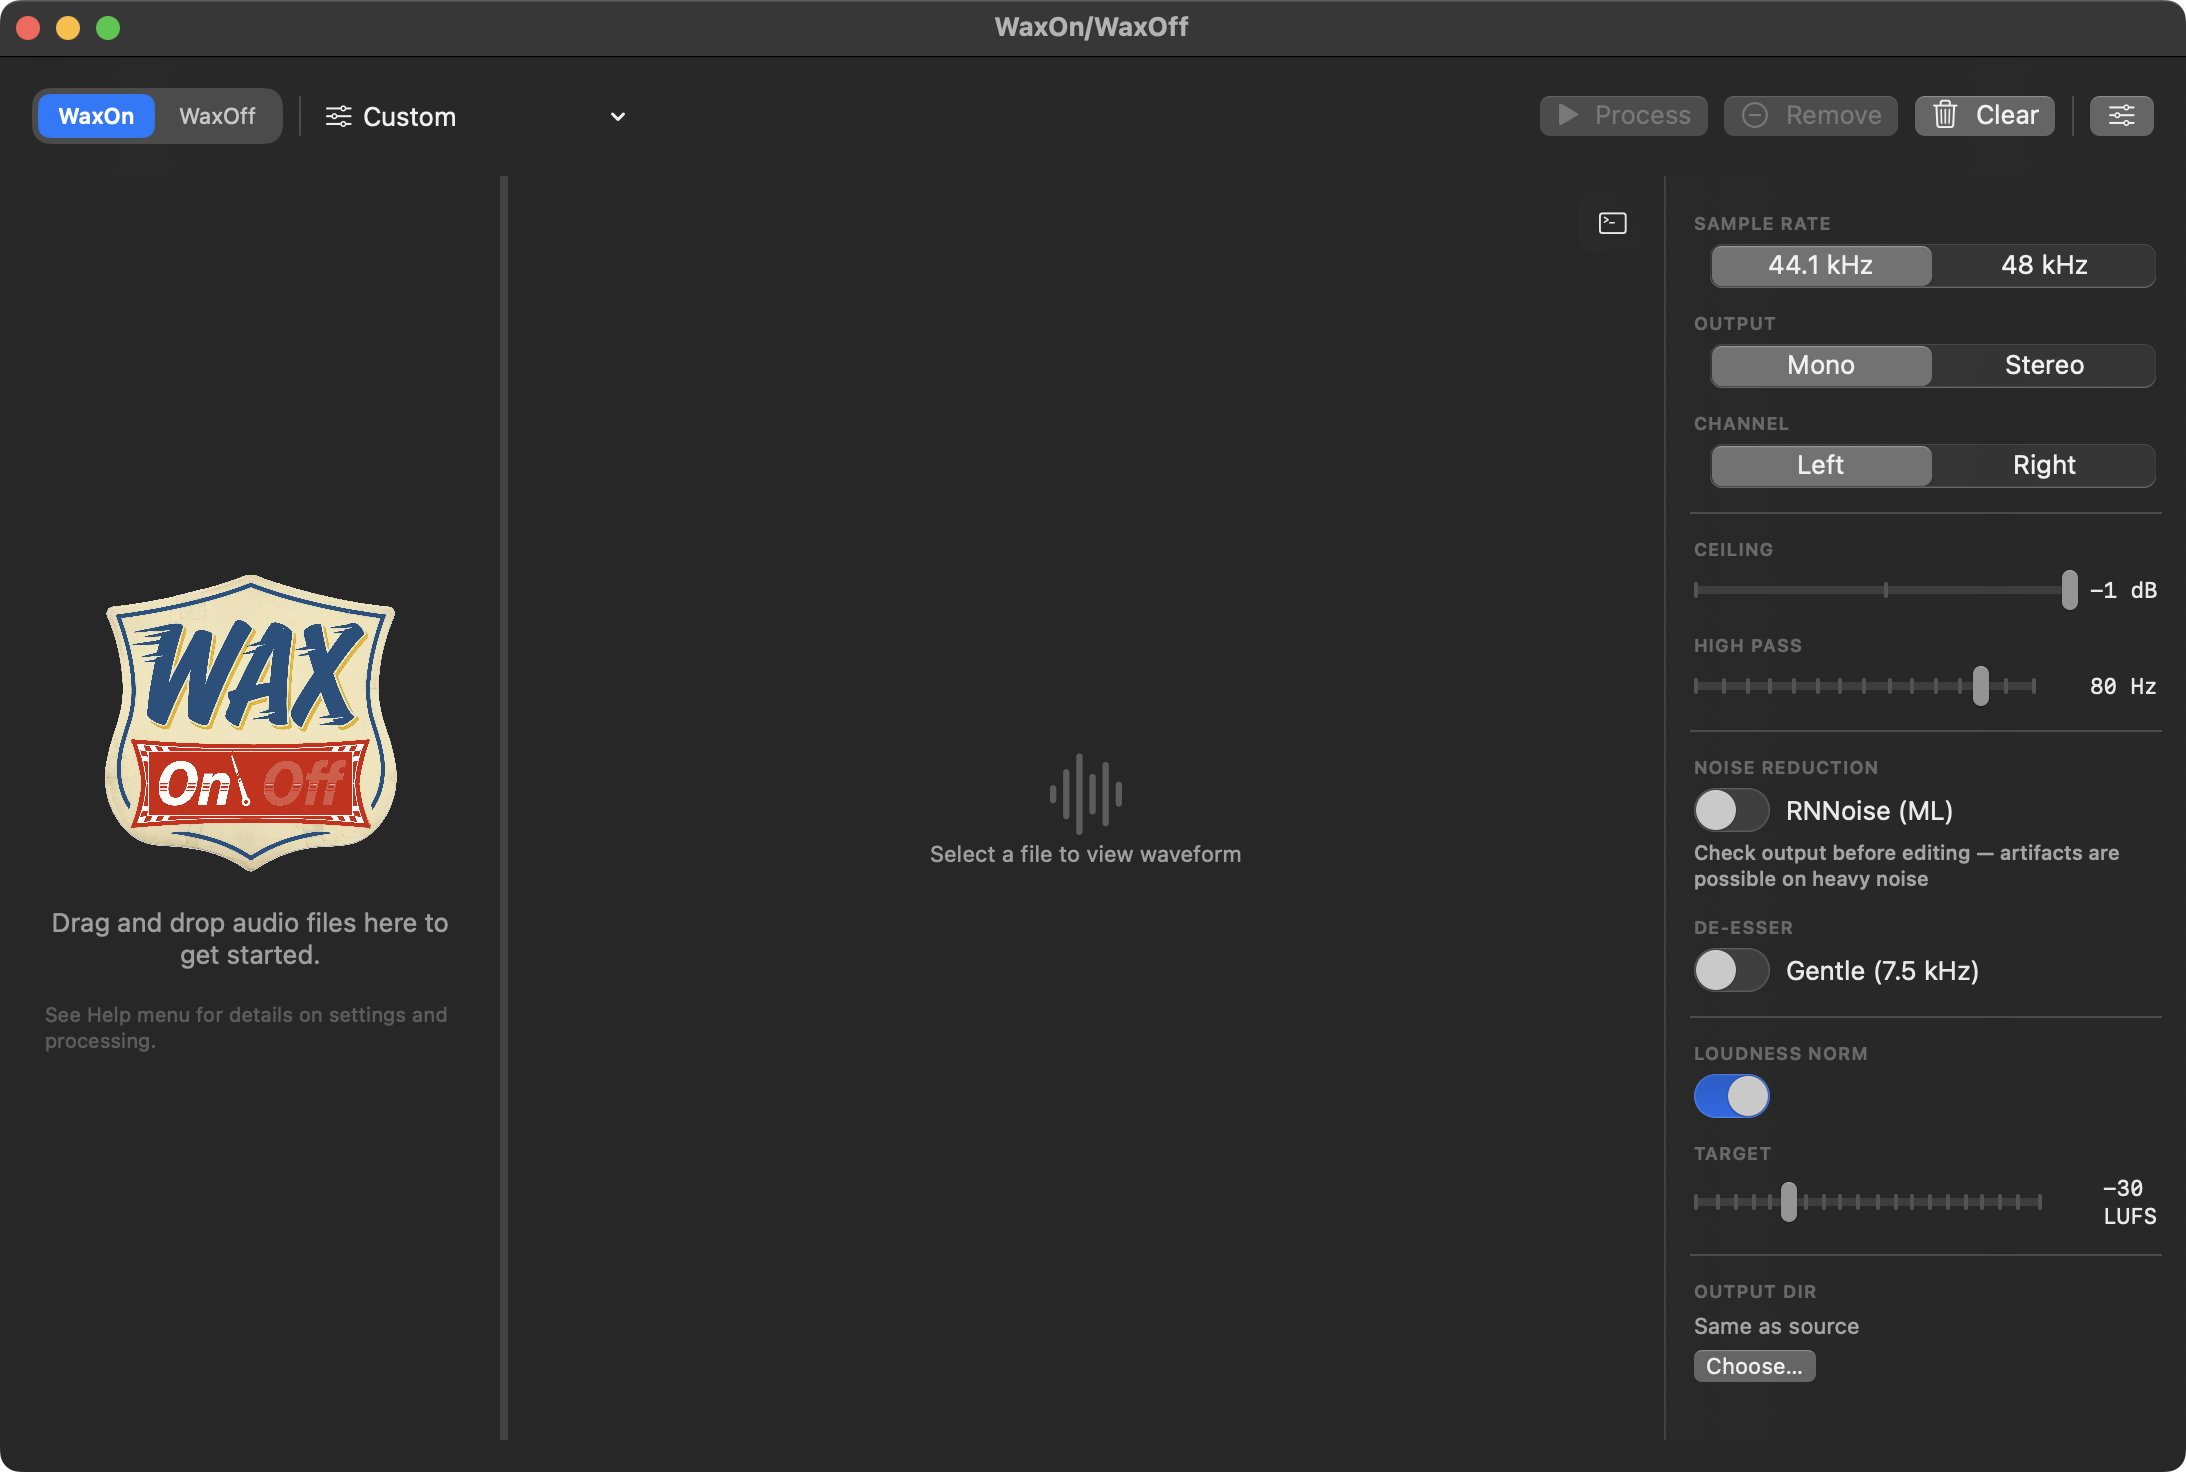
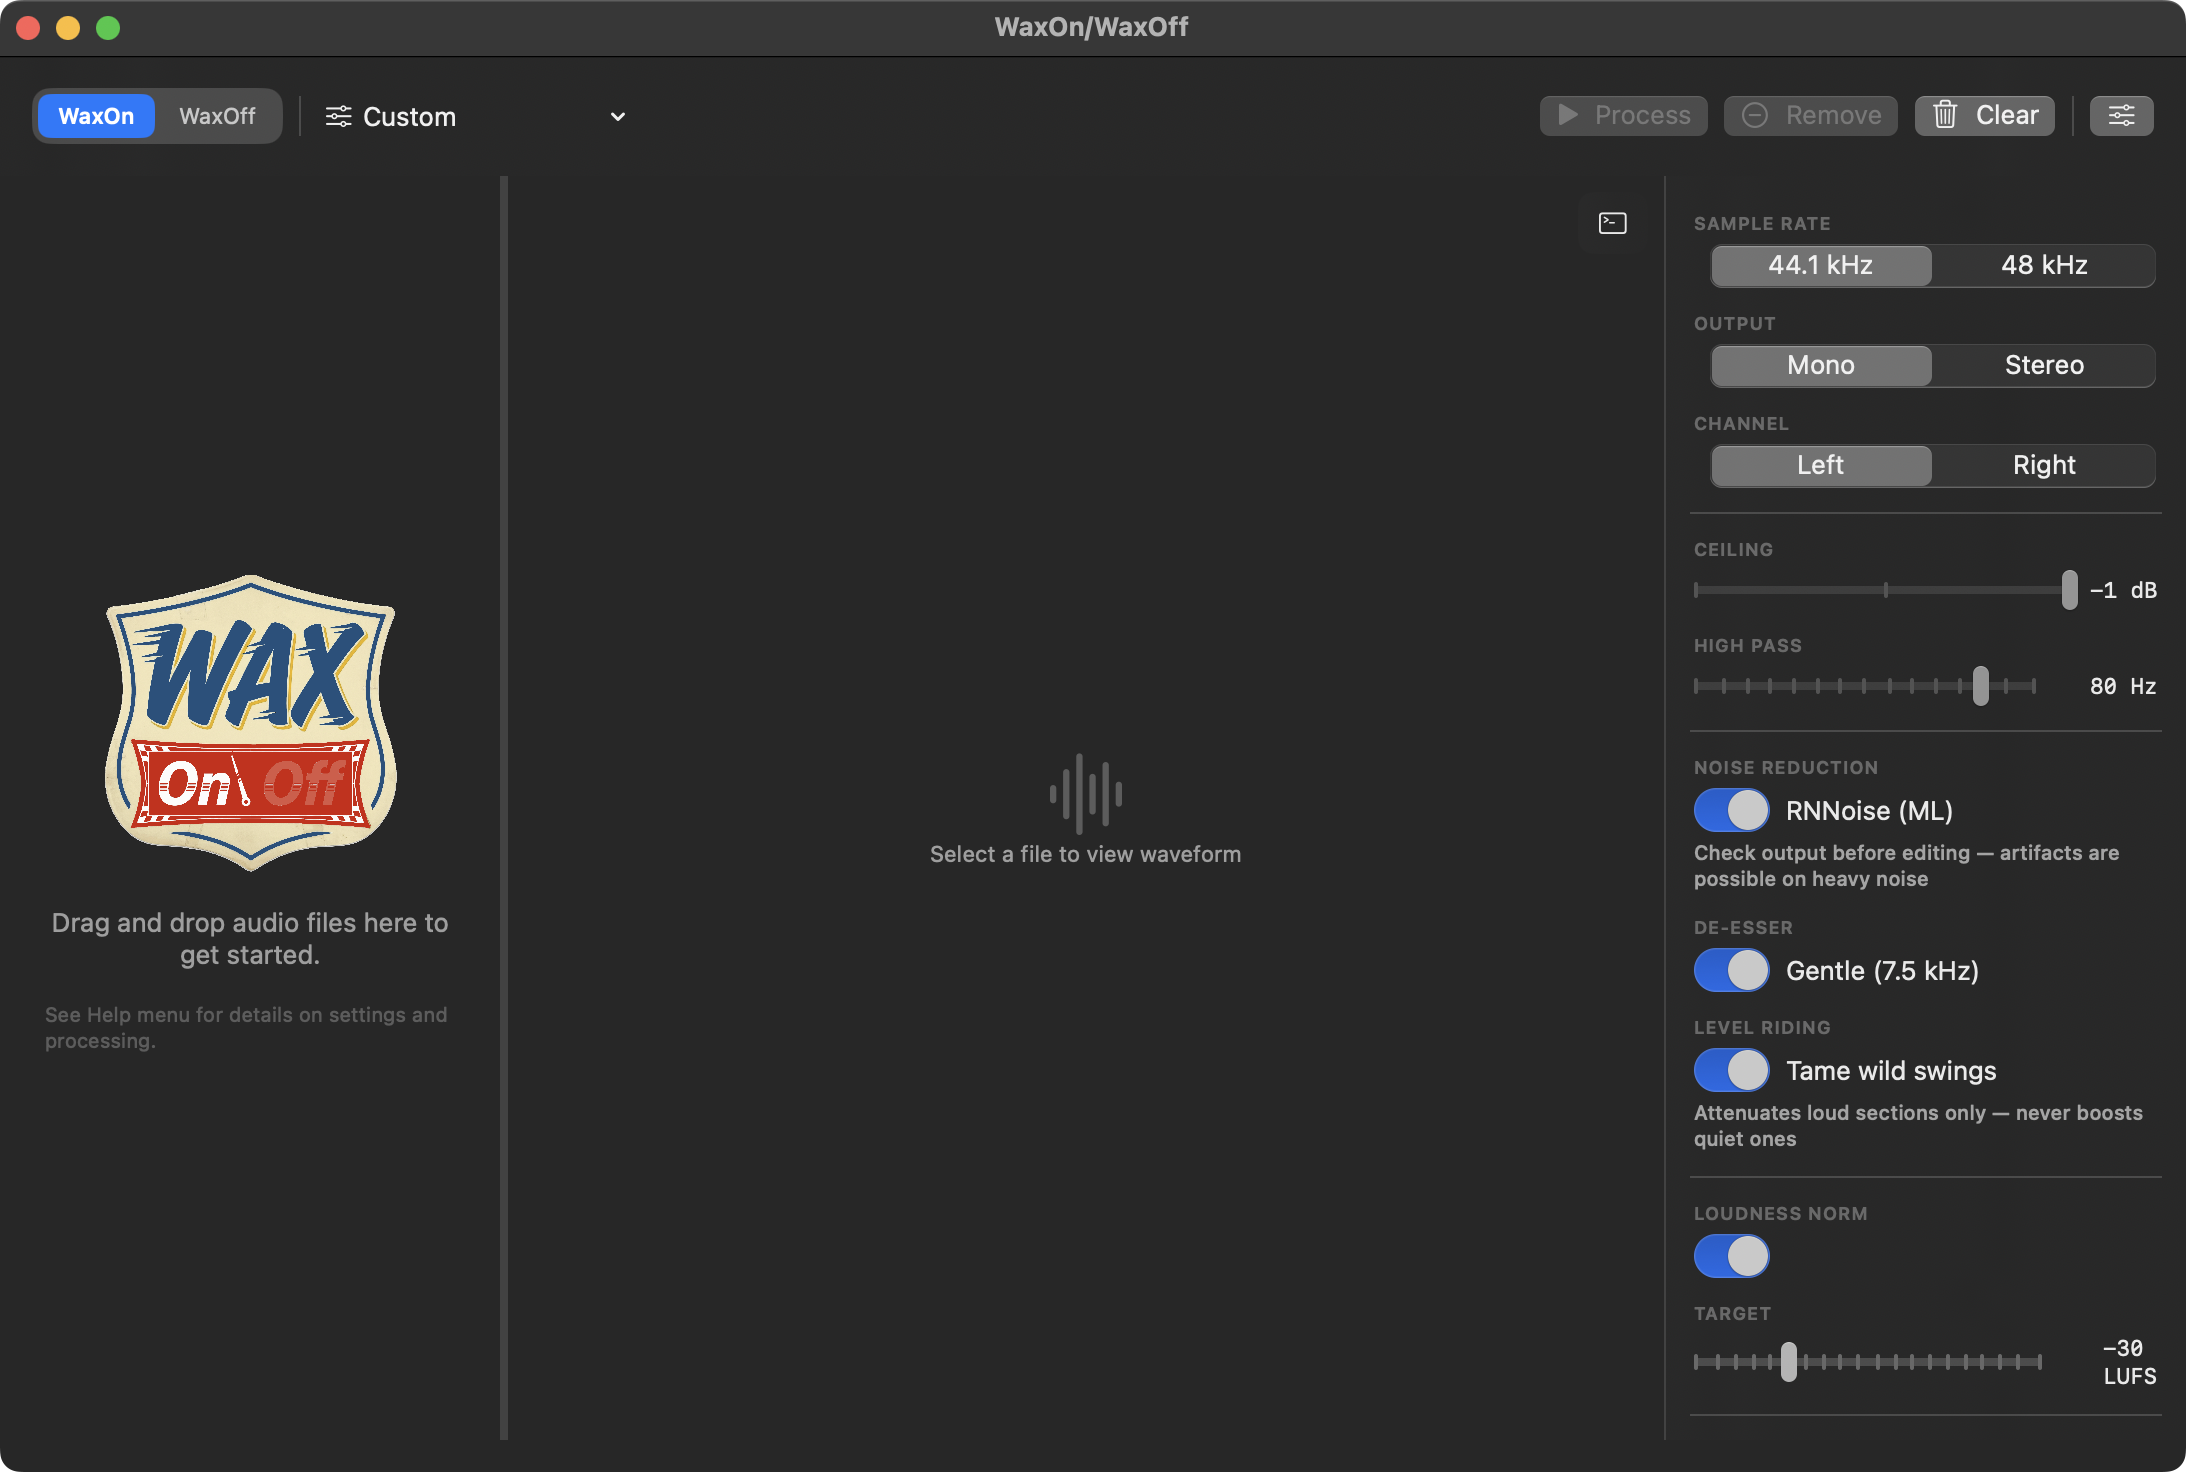
Add Level Riding (dynaudnorm downward-only), AIFC support, updated screenshots
- Level Riding: optional dynaudnorm pass (p=0.95, m=1.0, g=31) after de-esser,
  before loudnorm; attenuates loud sections only, never boosts quiet material
- Add AIFC to supported format lists in both view models and help text
- Replace WaxOn screenshots with updated versions showing Level Riding UI

diff --git a/WaxOnWaxOff/Services/AudioProcessor.swift b/WaxOnWaxOff/Services/AudioProcessor.swift
@@ -154,6 +154,22 @@ actor AudioProcessor {
             postDsURL = midURL
         }
 
+        // Level riding (optional, dynaudnorm downward-only)
+        let postLevelURL: URL
+        if settings.levelRidingEnabled {
+            let levelURL = work.appendingPathComponent("\(stem)_leveled.wav")
+            onLog?("  level riding: dynaudnorm (downward only, no boost)", .verbose)
+            try await runFFmpeg(exe: tools.ffmpeg, args: [
+                "-nostdin", "-hide_banner", "-loglevel", "error", "-y",
+                "-i", postDsURL.path, "-af", "dynaudnorm=p=0.95:m=1.0:g=31",
+                "-c:a", "pcm_s24le", "-ar", "\(sr)", "-ac", outputChannelCount, levelURL.path
+            ])
+            postLevelURL = levelURL
+            try Task.checkCancellation()
+        } else {
+            postLevelURL = postDsURL
+        }
+
         // Loudness normalization (optional, two-pass EBU R128)
         let limiterInput: URL
         if settings.loudnormEnabled {
@@ -177,19 +193,19 @@ actor AudioProcessor {
                     ].joined(separator: ";")
                     try await runFFmpeg(exe: tools.ffmpeg, args: [
                         "-nostdin", "-hide_banner", "-loglevel", "error", "-y",
-                        "-i", postDsURL.path, "-filter_complex", nrFc,
+                        "-i", postLevelURL.path, "-filter_complex", nrFc,
                         "-c:a", "pcm_s24le", "-ar", "\(sr)", "-ac", outputChannelCount, nrTempURL.path
                     ])
                 } else {
                     try await runFFmpeg(exe: tools.ffmpeg, args: [
                         "-nostdin", "-hide_banner", "-loglevel", "error", "-y",
-                        "-i", postDsURL.path, "-af", "arnndn=m=\(modelURL.path)",
+                        "-i", postLevelURL.path, "-af", "arnndn=m=\(modelURL.path)",
                         "-c:a", "pcm_s24le", "-ar", "\(sr)", "-ac", outputChannelCount, nrTempURL.path
                     ])
                 }
                 analysisInput = nrTempURL
             } else {
-                analysisInput = postDsURL
+                analysisInput = postLevelURL
             }
 
             let analyzeAf = "loudnorm=I=\(target):TP=\(tp):LRA=20:print_format=json"
@@ -210,13 +226,13 @@ actor AudioProcessor {
 
             try await runFFmpeg(exe: tools.ffmpeg, args: [
                 "-nostdin", "-hide_banner", "-loglevel", "error", "-y",
-                "-i", postDsURL.path, "-af", normAf,
+                "-i", postLevelURL.path, "-af", normAf,
                 "-c:a", "pcm_s24le", "-ar", "\(sr)", "-ac", outputChannelCount, normURL.path
             ])
 
             limiterInput = normURL
         } else {
-            limiterInput = postDsURL
+            limiterInput = postLevelURL
         }
 
         try Task.checkCancellation()

diff --git a/WaxOnWaxOff/Views/HelpView.swift b/WaxOnWaxOff/Views/HelpView.swift
@@ -46,6 +46,7 @@ struct HelpView: View {
                         "Channel selection (mono mode only) — extracts the left or right channel.",
                         "Resampling to the target sample rate.",
                         "De-esser (if enabled) — gentle sibilance reduction at 7.5 kHz.",
+                        "Level riding (if enabled) — downward-only dynamic normalization. Attenuates sections that exceed the target peak; never boosts quiet material.",
                         "Loudness normalization (if enabled) — two-pass EBU R128 analysis, then linear gain. No dynamic compression; dynamics are fully preserved.",
                         "Brick-wall limiting — 2× oversampled true peak control at the chosen ceiling."
                     ])
@@ -59,6 +60,7 @@ struct HelpView: View {
                     definition("High Pass", "High-pass filter cutoff frequency. Default 80 Hz, range 40–90 Hz.")
                     definition("Noise Reduction", "Enables RNNoise neural network noise reduction (arnndn). Check output before editing — artifacts are possible on heavy noise.")
                     definition("De-esser", "Enables gentle sibilance reduction (adeesser, 7.5 kHz, intensity 0.3). Reduces harshness on voiced content.")
+                    definition("Level Riding", "Enables downward-only dynamic normalization (dynaudnorm). Attenuates sections that exceed a target peak level; quiet material — including the noise floor — is never boosted. Use for recordings with wide level swings, e.g. an inconsistent speaker or a loud guest.")
                     definition("Loudness Norm", "Enables EBU R128 loudness normalization. When off, only filtering and limiting are applied.")
                     definition("Target", "Integrated loudness target when Loudness Norm is on. Default −30 LUFS, range −35 to −16 LUFS. Lower values leave more headroom for editing.")
                     definition("Output Dir", "Where processed files are saved. Defaults to the same folder as the source.")
@@ -112,7 +114,7 @@ struct HelpView: View {
                 dividerRow
 
                 section("Supported Formats") {
-                    text("WAV, AIFF, AIF, MP3, FLAC, M4A, OGG, Opus, CAF, WMA, AAC, MP4, MOV.")
+                    text("WAV, AIFF, AIF, AIFC, MP3, FLAC, M4A, OGG, Opus, CAF, WMA, AAC, MP4, MOV.")
                     text("All processing uses FFmpeg, bundled inside the app — no separate installation required.")
                 }
 

diff --git a/WaxOnWaxOff/ViewModels/ContentViewModel.swift b/WaxOnWaxOff/ViewModels/ContentViewModel.swift
@@ -17,7 +17,7 @@ final class ContentViewModel {
     private var processingTask: Task<Void, Never>?
 
     private static let validExtensions: Set<String> = [
-        "wav", "aif", "aiff", "mp3", "flac", "m4a", "ogg", "opus", "caf", "wma", "aac",
+        "wav", "aif", "aiff", "aifc", "mp3", "flac", "m4a", "ogg", "opus", "caf", "wma", "aac",
         "mp4", "mov"
     ]
 
@@ -31,7 +31,7 @@ final class ContentViewModel {
         let rejected = audioURLs.count - valid.count
 
         if rejected > 0 {
-            alertMessage = "\(rejected) file\(rejected == 1 ? "" : "s") skipped — unsupported format. Supported: wav, aif, aiff, mp3, flac, m4a, ogg, opus, caf, wma, aac, mp4, mov."
+            alertMessage = "\(rejected) file\(rejected == 1 ? "" : "s") skipped — unsupported format. Supported: wav, aif, aiff, aifc, mp3, flac, m4a, ogg, opus, caf, wma, aac, mp4, mov."
         }
 
         let newFiles = valid.map { FileItem(url: $0) }

diff --git a/WaxOnWaxOff/Views/SettingsView.swift b/WaxOnWaxOff/Views/SettingsView.swift
@@ -85,6 +85,20 @@ struct SettingsView: View {
                     }
                 }
 
+                row("Level Riding") {
+                    VStack(alignment: .leading, spacing: 4) {
+                        HStack(spacing: 8) {
+                            Toggle("", isOn: $viewModel.settings.levelRidingEnabled)
+                                .toggleStyle(.switch)
+                                .labelsHidden()
+                            Text("Tame wild swings")
+                        }
+                        Text("Attenuates loud sections only — never boosts quiet ones")
+                            .font(.caption2)
+                            .foregroundStyle(.secondary)
+                    }
+                }
+
                 Divider().padding(.vertical, 6)
 
                 row("Loudness Norm") {

diff --git a/WaxOnWaxOff/ViewModels/DeliveryViewModel.swift b/WaxOnWaxOff/ViewModels/DeliveryViewModel.swift
@@ -18,7 +18,7 @@ final class DeliveryViewModel {
     private var processingTask: Task<Void, Never>?
 
     private static let validExtensions: Set<String> = [
-        "wav", "aif", "aiff", "mp3", "flac", "m4a", "ogg", "opus", "caf", "wma", "aac",
+        "wav", "aif", "aiff", "aifc", "mp3", "flac", "m4a", "ogg", "opus", "caf", "wma", "aac",
         "mp4", "mov"
     ]
 

diff --git a/WaxOnWaxOff/Models/Settings.swift b/WaxOnWaxOff/Models/Settings.swift
@@ -25,6 +25,7 @@ struct WaxOnSettings: Codable, Equatable, Sendable {
     var dcBlockHz: Int = 80
     var noiseReductionEnabled: Bool = false
     var deEsserEnabled: Bool = false
+    var levelRidingEnabled: Bool = false
     var outputDirectoryPath: String? = nil
 
     private static let storageKey = "WaxOnSettings"

diff --git a/README.md b/README.md
@@ -77,7 +77,7 @@ WaxOn was designed for podcast audio, but the prep pipeline (high-pass filtering
 
 ## Supported Formats
 
-WAV, AIFF, AIF, MP3, FLAC, M4A, OGG, Opus, CAF, WMA, AAC, MP4, MOV. FFmpeg is bundled; no separate installation required.
+WAV, AIFF, AIF, AIFC, MP3, FLAC, M4A, OGG, Opus, CAF, WMA, AAC, MP4, MOV. FFmpeg is bundled; no separate installation required.
 
 ## System Requirements
 
